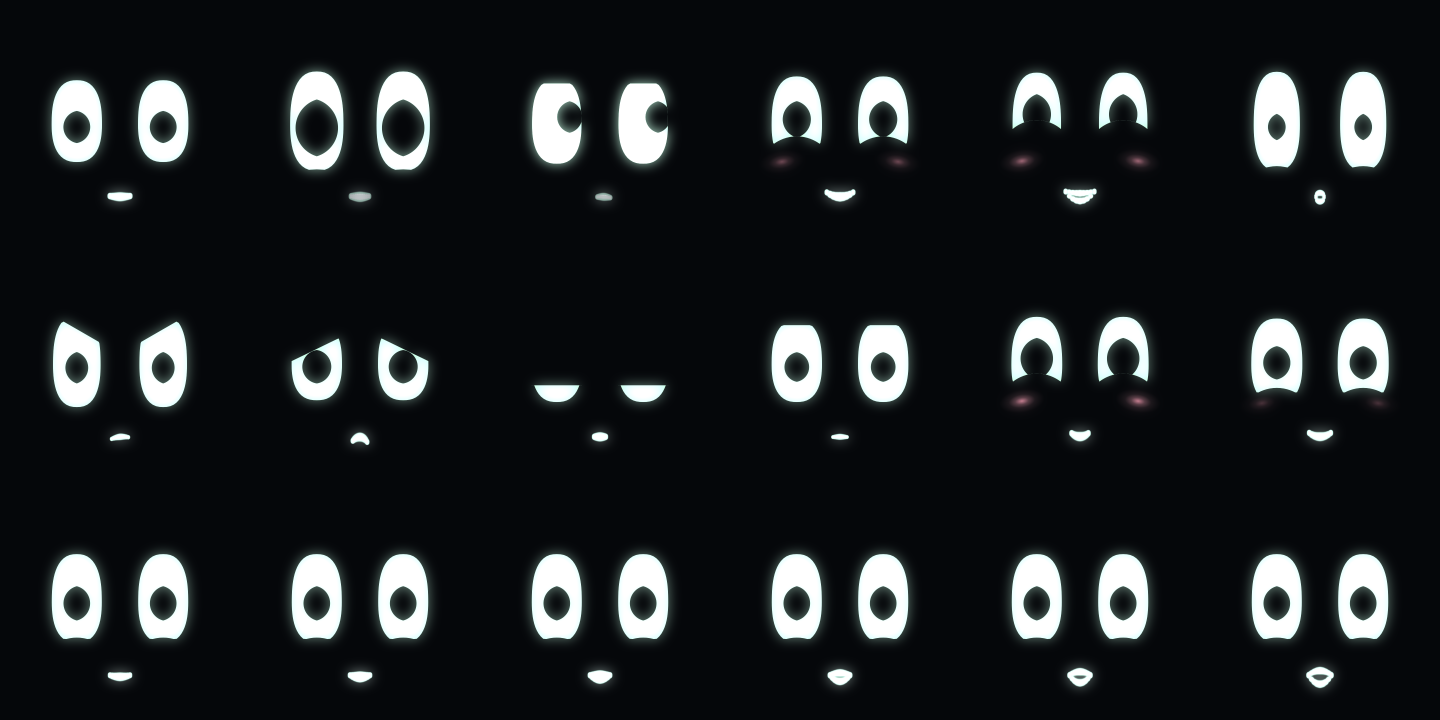
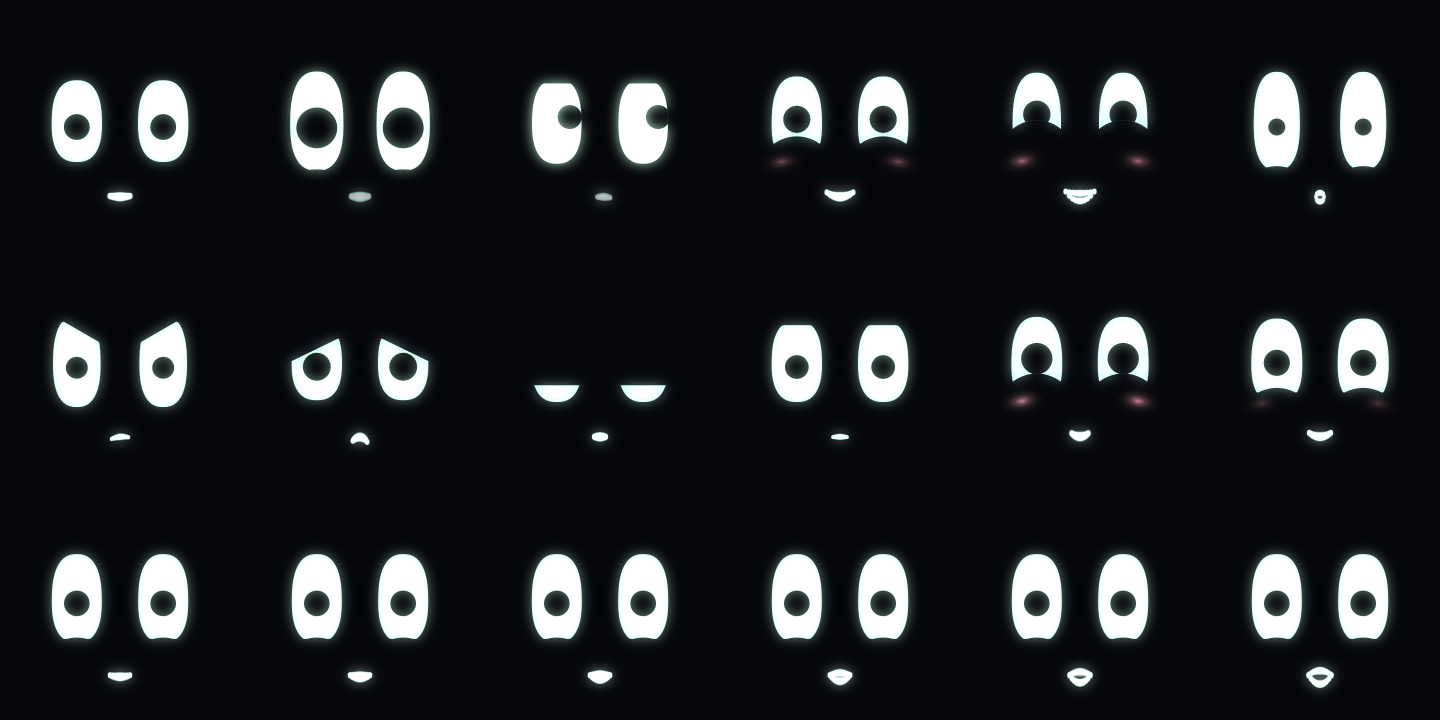
node-face: round pupils

diff --git a/crates/node-face/src/draw.rs b/crates/node-face/src/draw.rs
@@ -306,7 +306,7 @@ pub fn draw(cv: &mut Canvas, face: &Face, st: &Style, t: f64) {
             let (ew, eh) = (e.w * st.size * grow * w, e.h * st.size * grow * w);
             let dil = face.pose.pupil * (1.0 + 0.3 * face.listen + 0.15 * face.hear);
             let scan = face.think * ((t * 1000.0 / 260.0) as f32 + side * 0.4).sin() * 0.3;
-            let (pw, ph) = (ew * 0.52 * dil, eh * 0.4 * dil);
+            let (pw, ph) = (ew * 0.5 * dil, ew * 0.5 * dil); // a circle
             let (ecx, ecy) = u(cx, cy);
             let (px, py) = (
                 ecx + (face.gx * 0.3 + scan) * ew,
